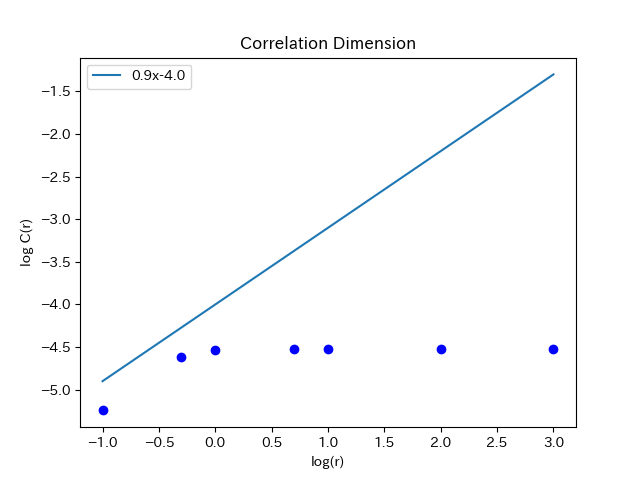
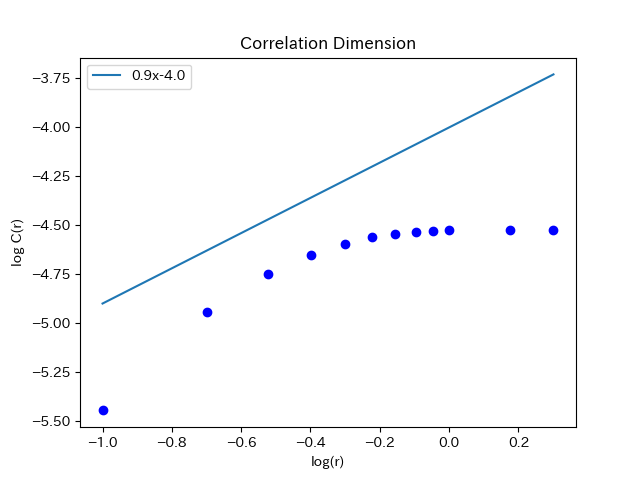
cordim

diff --git a/nonlinear-data-analysis/correlation-dim.py b/nonlinear-data-analysis/correlation-dim.py
@@ -12,8 +12,8 @@ def cordim(N,m,f):
     tau=10
     xx=np.array([np.array([ f[i+tau*j] for j in range(m)] ) for i in range(N-m*tau) ])
 
-    M=10000
-    rlist=[0.1,0.5, 1.0, 5, 10, 100,1000]
+    M=1000
+    rlist=[0.001,0.005,0.01, 0.05, 0.1,0,15 ,0.2, 0.5,1.0,1.5,2.0]
 
     for r in rlist:
         count=0
